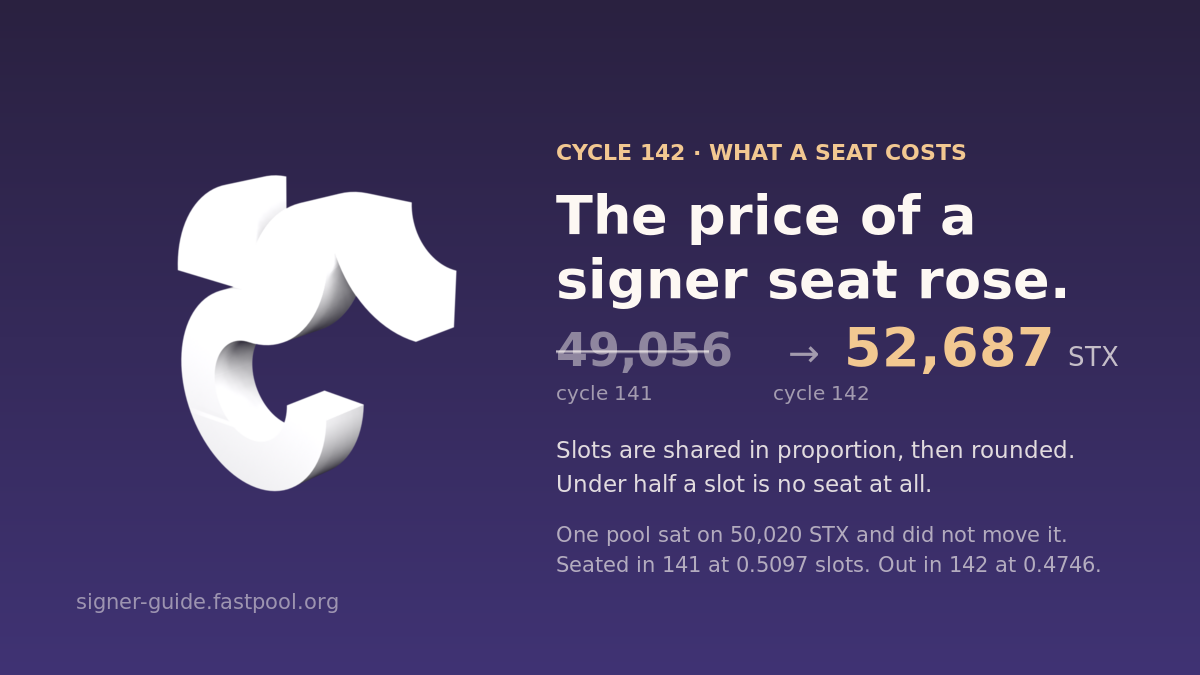
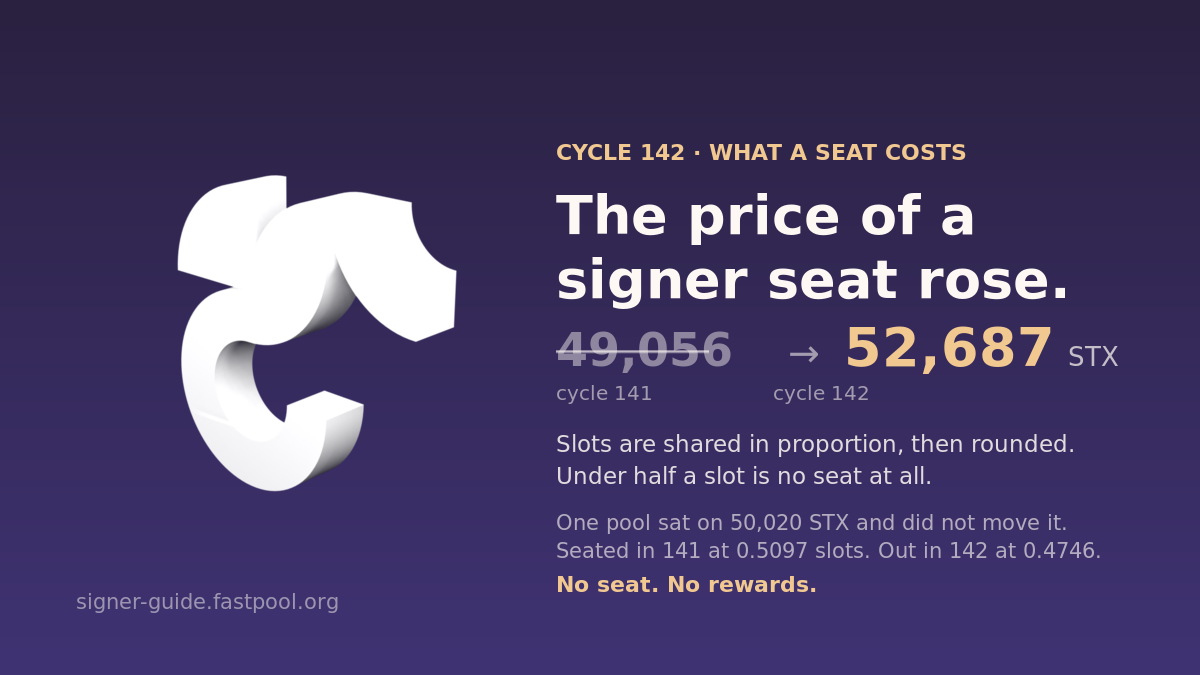
Say what the lost seat cost, on the card as well as in the film
The verdict gained a line — a seat is not the point, what the seat pays is —
and the card stopped one line short of saying so. It now ends where the film
does: no seat, no rewards, in amber, as the conclusion rather than another
sentence of explanation.

The block above it tightened by six and twelve pixels to buy the room. The
last line sits at 588 with the padding starting at 599, so the next line added
here has to come from the spacing too rather than from the margin.

Claude-Session: https://claude.ai/code/session_01Nu1f8L7eMpy45Q5qxniHHa

Changed region(s): [[0.4625, 0.6533, 0.925, 0.9022]]

diff --git a/scripts/lesson/seahorse-explainer.py b/scripts/lesson/seahorse-explainer.py
@@ -313,7 +313,7 @@ def build(args):
     ].default_value = rgba('#f2c891')
     rule.data.materials.append(rule_material)
     rule.scale = (0.0, 0.02, 0.022)
-    verdict = text('0.4746 slots.\nNo seat.', 0.46, '#fdf8f3', (-5.2, -0.6, 1.55))
+    verdict = text('0.4746 slots.\nNo seat.\nNo rewards.', 0.46, '#fdf8f3', (-5.2, -0.6, 1.55))
     verdict.scale = (0.0,) * 3
 
     # Where it came from, so a clip reposted without its note still says.
